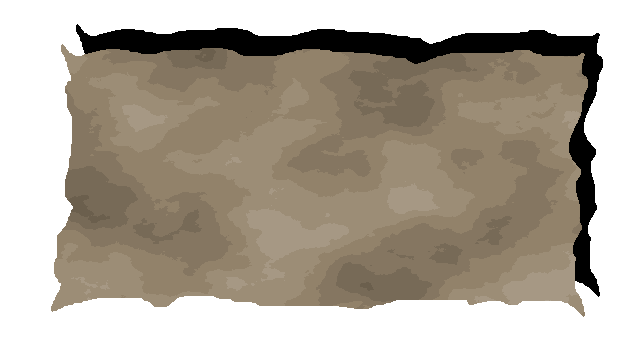
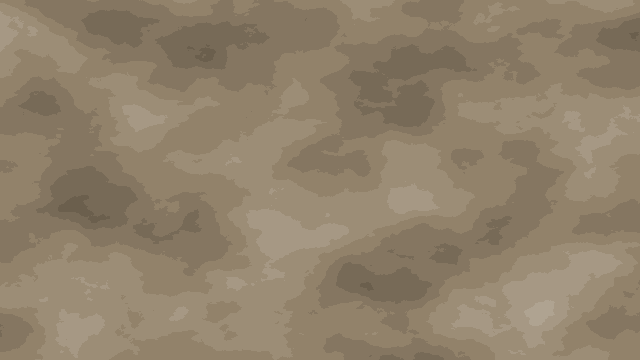
added pause menu
- Added pause menu. Press "escape" or "p" during the level to pause. Press again, or click "resume", to unpause.
- Replaced rugged-edge popup menu background with a textured square for easier variety of dimension.
- Adjusted alignment of some popup menu items, and filled in credits.

diff --git a/script/scene_title.js b/script/scene_title.js
@@ -18,7 +18,7 @@ function initialize_menu() {
     o = createText("Start", gameProperties.width / 2,
         menuCenter - 12, startLevel, play_title);
     title_overlay.addChild(o);
-    o = createText("Config", gameProperties.width / 2,
+    o = createText("Options", gameProperties.width / 2,
         menuCenter + 12, showConfig, play_title);
     title_overlay.addChild(o);
     o = createText("Credits", gameProperties.width / 2,
@@ -108,9 +108,7 @@ function startLevel() {
 }
 
 function showConfig() {
-    var box = createPopup(levelScene, play_credits); //, 32, 32, gameProperties.width - 64, gameProperties.height - 64);
-    var halfWidth = gameProperties.width / 2;
-    var halfHeight = gameProperties.height / 2;
+    var box = createPopup(levelScene, play_credits, gameProperties.preferred_width - 64, gameProperties.preferred_height - 64)//, 32, 32, gameProperties.width - 64, gameProperties.height - 64);
     var lineHeight = 20;
     var colWidth = 100;
 
@@ -148,23 +146,88 @@ function showConfig() {
     o = createBar(controls.sfx, -100, lineHeight*3 - lineHeight / 2, 200, lineHeight);
     box.addChild(o);
 
-    o = createText("Okay", 140, 90, closePopup, play_credits);
+    //o = createText("Okay", 140, 90, closePopup, play_credits);
+    o = createText("Okay", 100 - 20,
+        (gameProperties.preferred_height - 64) / 2 - 20 - 8, closePopup, play_credits);
+    //o.anchor.set(1, 1);
     box.addChild(o);
 }
 
 function showCredits() {
-    var box = createPopup(levelScene, play_credits); //, 32, 32, gameProperties.width - 64, gameProperties.height - 64);
+    var box = createPopup(levelScene, play_credits, gameProperties.preferred_width * 3 / 4, gameProperties.preferred_height - 64)//, 32, 32, gameProperties.width - 64, gameProperties.height - 64);
     var o;
-    o = createText("Sakata Mountain by Karob", 120,
-        100);
+
+    o = createText("Sakata Mountain by Karob\nCreated with PixiJS\n\nMusic: Karob\nOriginal: ZUN\n\nCricket sfx by RHumphries under CC BY 3.0\n\nFont: Pixellari by Zacchary Dempsey-Plante", -(gameProperties.preferred_width * 3 / 4) / 2 + 20, -(gameProperties.preferred_height - 64) / 2 + 20);
     o.anchor.set(0, 0);
     o.font.size = 16;
     o.font.tint = "0x000000";
     box.addChild(o);
-    o = createText("Okay", gameProperties.width / 2 + 150,
-        gameProperties.height / 2 + 90, closePopup, play_credits);
+
+    o = createText("Okay", 100 - 20,
+        (gameProperties.preferred_height - 64) / 2 - 20 - 8, closePopup, play_credits);
+    //o.anchor.set(1, 1);
     box.addChild(o);
 }
 
+function showPause() {
+    stopwatch.pause = Date.now();
+
+    var box = createPopup(levelScene, play_pause, gameProperties.preferred_width / 2, gameProperties.preferred_height * 3 / 5);
+    var lineHeight = 20;
+    var colWidth = 100;
+
+    var o;
+    o = createText("Paused", 0, lineHeight*-3);
+    //o.font.size = 16;
+    o.font.tint = "0x000000";
+    box.addChild(o);
+
+    o = createText("Options", 0, lineHeight*-1, () => showConfig(), play_pause);
+    //o.font.size = 16;
+    box.addChild(o);
+
+    o = createText("Main Menu", 0, lineHeight*0.5, () => showRestart(), play_pause);
+    //o.font.size = 16;
+    box.addChild(o);
+
+    o = createText("Resume", 0, lineHeight*2.5, () => unPause(), play_pause);
+    //o.font.size = 16;
+    box.addChild(o);
+}
+function showRestart() {
+    var box = createPopup(levelScene, play_pause, gameProperties.preferred_width * 3 / 5, gameProperties.preferred_height / 2);
+    var lineHeight = 20;
+    var colWidth = 100;
+
+    var o;
+    o = createText("Are you sure you want to restart?", 0, lineHeight*-1);
+    //o.font.size = 16;
+    o.font.tint = "0x000000";
+    box.addChild(o);
+
+    o = createText("Yes", -colWidth / 2, lineHeight*1, () => closePopup(), play_pause);
+    box.addChild(o);
+
+    o = createText("No", colWidth / 2, lineHeight*1, () => closePopup(), play_pause);
+    box.addChild(o);
+}
+function unPause() {
+    if (stopwatch.started) {
+        stopwatch.start += Date.now() - stopwatch.pause;
+        stopwatch.message.text = Math.floor((Date.now() - stopwatch.start) / 1000);
+    }
+    closePopup();
+}
+function play_pause() {
+    if (keys.menu.held && keys.menu.toggled) {
+        keys.menu.toggled = false;
+        unPause();
+    }
+}
+
 function play_credits() {
+    if (keys.menu.held && keys.menu.toggled) {
+        keys.menu.toggled = false;
+        closePopup();
+    }
 }

diff --git a/script/util.js b/script/util.js
@@ -146,27 +146,32 @@ function menu_updateColor(o) {
 }
 
 var universalPopup = [];
-function createPopup(parent, newState, x, y, width, height) {
+function createPopup(parent, newState, width, height) {//, x, y, width, height) {
+    var o;
     var box = new PIXI.Container();
     box.x = gameProperties.width / 2;
     box.y = gameProperties.height / 2;
     parent.addChild(box);
 
-    var o = new PIXI.Sprite(parchmentAtlas["parchment"]);
-    /*
-    var o = new PIXI.Graphics();
-    o.beginFill(0x000000);
-    o.drawRect(0, 0, width, height);
-    o.endFill();
-    o.x = x;
-    o.y = y;
-    //o.width = width;
-    //o.height = height;
-    */
+    //o = new PIXI.Sprite(parchmentAtlas["parchment"]);
+    //o.anchor.set(0.5);
+
+    o = new PIXI.extras.TilingSprite(parchmentAtlas["parchment"], width, height);
     o.anchor.set(0.5);
-    universalPopup.push({obj: box, prevState: state});
     box.addChild(o);
 
+    o = new PIXI.Graphics();
+    o.beginFill(0x000000);
+    o.drawRect(0, 0, width, 1);
+    o.drawRect(0, height - 1, width, 1);
+    o.drawRect(0, 0, 1, height);
+    o.drawRect(width - 1, 0, 1, height);
+    o.endFill();
+    o.pivot.set(width / 2, height / 2);
+    box.addChild(o);
+
+    universalPopup.push({obj: box, prevState: state});
+    
     //box.pivot.set(o.width / 2, o.height / 2);
 
     state = newState;

diff --git a/framed.html b/framed.html
@@ -202,6 +202,7 @@ iframe {
             <li><b>Attack:</b> J, Z, or 4</li>
             <li><b>Jump:</b> K, X or 3</li>
             <li><b>Drop down:</b> Look down + Jump</li>
+            <li><b>Pause:</b> Escape or P</li>
             </ul>
 
             <h2>Credits</h2>

diff --git a/script/input.js b/script/input.js
@@ -24,6 +24,12 @@ var keys = {
     },
     d: {
         bindings: [59, 86, 49]
+    },
+    menu: { //escape, p
+        bindings: [27, 80]
+    },
+    cancels: { //cancel response to spacebar
+        bindings: [32]
     }
 }
 var keyskeys = Object.keys(keys);

diff --git a/script/scene_level.js b/script/scene_level.js
@@ -453,6 +453,11 @@ function playerCheckWall(x, y) {
 }
 
 function play(delta) {
+    if (keys.menu.held && keys.menu.toggled) {
+        keys.menu.toggled = false;
+        showPause();
+    }
+
     // Move Player:
 
     player.vy += 0.5 * delta

diff --git a/README.md b/README.md
@@ -32,6 +32,7 @@ The gimmick of this game is that any enemy can be defeated from a single attack.
 - **Attack:** J, Z, or 4
 - **Jump:** K, X or 3
 - **Drop down:** Look down + Jump
+- **Pause:** Escape or P
 
 # Credits
 
